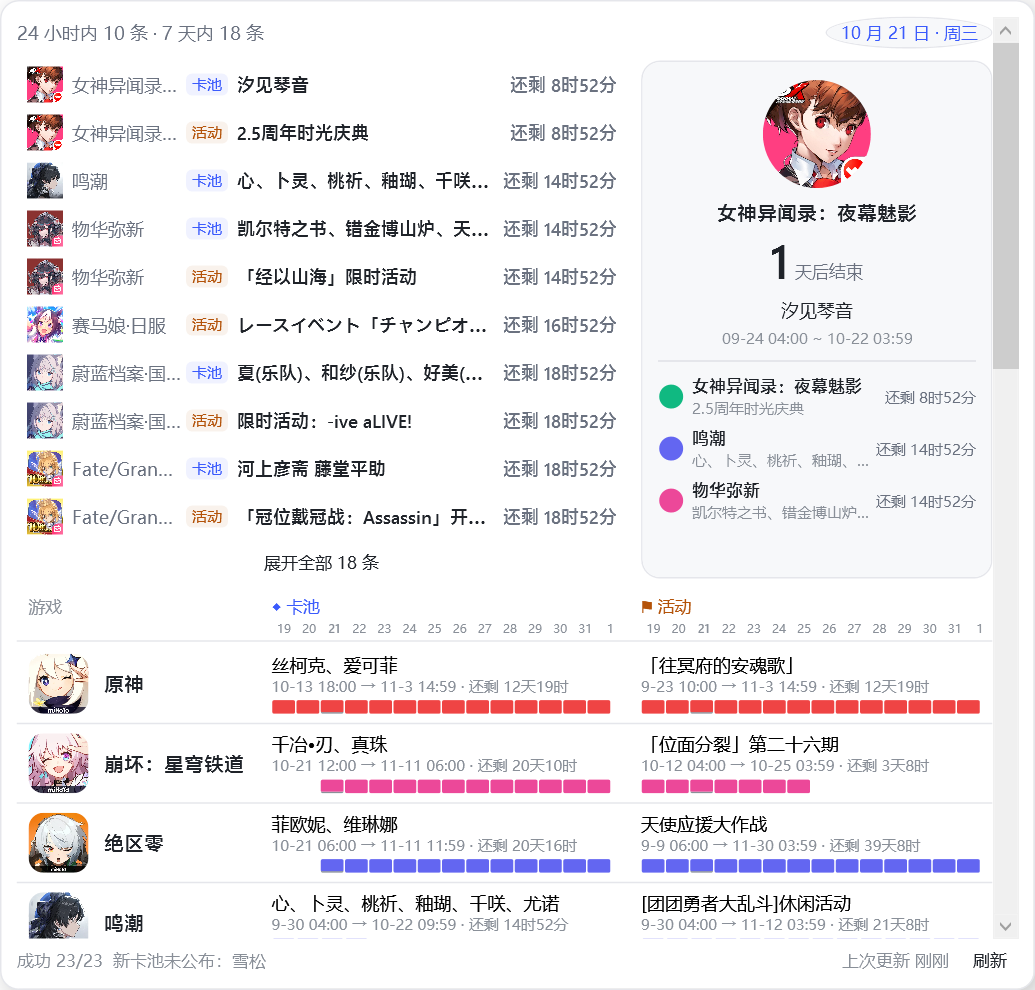
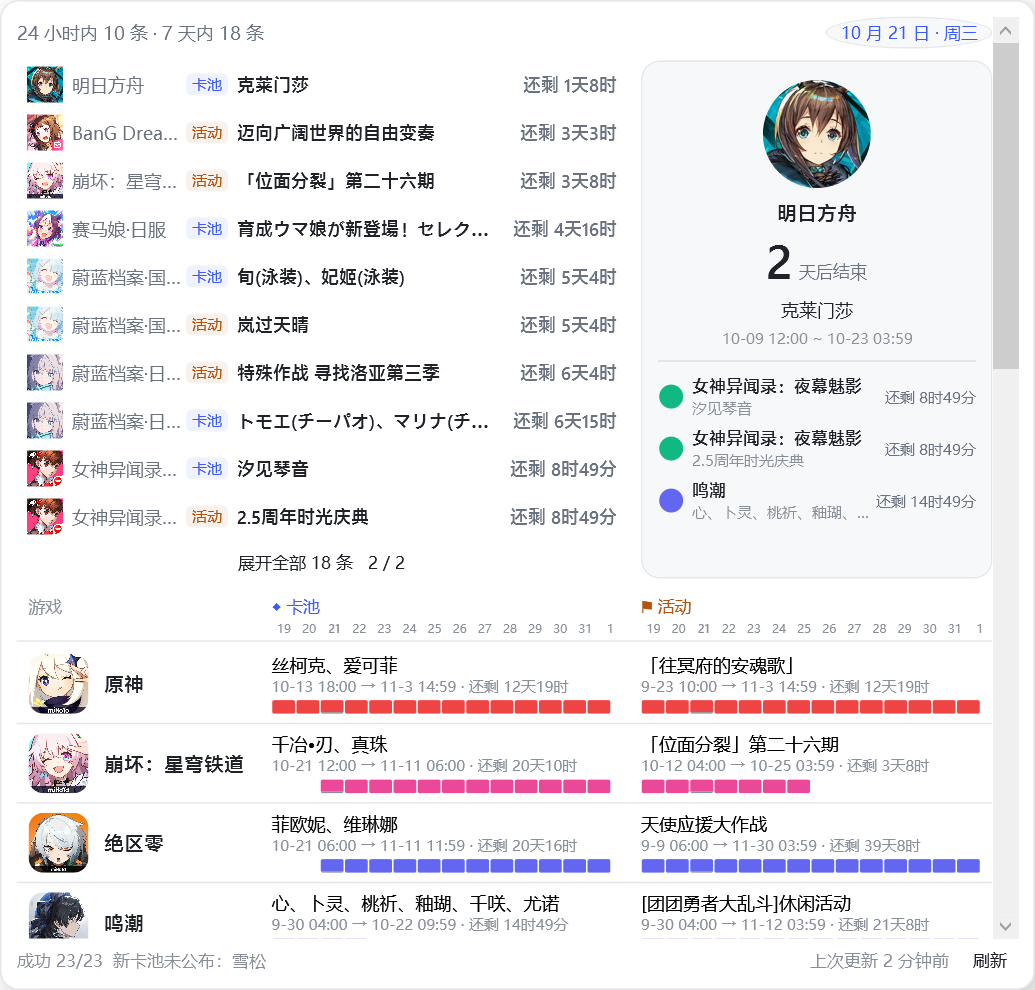
feat: v0.1.15 newPanel 循环翻页与失败横条
- 近期列表 >10 条时每 4 秒循环翻页，悬停暂停，按钮显示页码
- 刷新失败横条 + 重试；newPanel 浅/深色 100/150 截图
- 版本 0.1.15

验证：dotnet build 0 警告 0 错误；npm test 34/34；npm run check 通过；截图实测页码 2/2

diff --git a/src/GachaCalendar/Views/ScheduleView.xaml b/src/GachaCalendar/Views/ScheduleView.xaml
@@ -63,7 +63,7 @@
 						<ColumnDefinition Width="64*" />
 						<ColumnDefinition Width="36*" />
 					</Grid.ColumnDefinitions>
-					<StackPanel Grid.Column="0" Margin="0,0,10,0">
+					<StackPanel Grid.Column="0" Margin="0,0,10,0" MouseEnter="OnUrgentAreaEnter" MouseLeave="OnUrgentAreaLeave">
 						<ItemsControl ItemsSource="{Binding Urgent}">
 							<ItemsControl.ItemTemplate>
 								<DataTemplate>
@@ -440,6 +440,32 @@
 						</DataTemplate>
 					</ItemsControl.ItemTemplate>
 				</ItemsControl>
+
+				<!-- 刷新失败横条：来源级失败（沿用上次成功数据） -->
+				<Border Margin="0,6,0,2" Padding="8,4" CornerRadius="6" Background="#14D9484D" ToolTip="{Binding FailureTip}">
+					<Border.Style>
+						<Style TargetType="Border">
+							<Setter Property="Visibility" Value="Collapsed" />
+							<Style.Triggers>
+								<DataTrigger Binding="{Binding HasFailure}" Value="True">
+									<Setter Property="Visibility" Value="Visible" />
+								</DataTrigger>
+							</Style.Triggers>
+						</Style>
+					</Border.Style>
+					<Grid>
+						<Grid.ColumnDefinitions>
+							<ColumnDefinition Width="Auto" />
+							<ColumnDefinition Width="*" />
+							<ColumnDefinition Width="Auto" />
+						</Grid.ColumnDefinitions>
+						<TextBlock Text="!" FontSize="12" FontWeight="SemiBold" Foreground="{DynamicResource Danger}" Margin="0,0,6,0" />
+						<TextBlock Grid.Column="1" Text="{Binding FailureText}" FontSize="11" Foreground="{DynamicResource Danger}"
+								   TextTrimming="CharacterEllipsis" VerticalAlignment="Center" />
+						<Button Grid.Column="2" Content="重试" Style="{StaticResource SchedLinkButton}" Click="OnRefresh"
+								Foreground="{DynamicResource Danger}" />
+					</Grid>
+				</Border>
 			</StackPanel>
 		</ScrollViewer>
 

diff --git a/src/GachaCalendar/ViewModels/ScheduleViewModel.cs b/src/GachaCalendar/ViewModels/ScheduleViewModel.cs
@@ -3,6 +3,7 @@ using System.ComponentModel;
 using System.Globalization;
 using System.Runtime.CompilerServices;
 using System.Windows.Media;
+using System.Windows.Threading;
 using GachaCalendar.Models;
 using GachaCalendar.Services;
 using Brush = System.Windows.Media.Brush;
@@ -27,6 +28,17 @@ public sealed class SchedulePanelVm : INotifyPropertyChanged
 	private bool _expanded;
 	private ScheduleItemVm? _focus;
 	private string _scrapeText = "";
+	private string _failureText = "";
+	private string _failureTip = "";
+	private readonly DispatcherTimer _cycleTimer;
+	private int _page;
+	private bool _hovered;
+
+	public SchedulePanelVm()
+	{
+		_cycleTimer = new DispatcherTimer { Interval = TimeSpan.FromSeconds(4) };
+		_cycleTimer.Tick += (_, _) => NextPage();
+	}
 
 	public ObservableCollection<ScheduleItemVm> Urgent { get; } = new();
 	public ObservableCollection<ScheduleItemVm> FocusOthers { get; } = new();
@@ -37,6 +49,9 @@ public sealed class SchedulePanelVm : INotifyPropertyChanged
 	public string DatePill { get; private set; } = "";
 	public string UpdatedAgo { get; private set; } = "上次更新 尚未更新";
 	public string ScrapeText { get => _scrapeText; private set => Set(ref _scrapeText, value); }
+	public string FailureText { get => _failureText; private set => Set(ref _failureText, value); }
+	public string FailureTip { get => _failureTip; private set => Set(ref _failureTip, value); }
+	public bool HasFailure => FailureText.Length > 0;
 	public ScheduleItemVm? Focus { get => _focus; private set => Set(ref _focus, value); }
 	public string FocusGameName => Focus?.GameName ?? "";
 	public string FocusTitle => Focus?.Show ?? "";
@@ -50,8 +65,10 @@ public sealed class SchedulePanelVm : INotifyPropertyChanged
 	public int UrgentTotal { get; private set; }
 	public bool CanExpand => UrgentTotal > 10;
 	public bool HasExpand => CanExpand;
-	public string ExpandText => _expanded ? "收起" : $"展开全部 {UrgentTotal} 条";
-	public string ExpandPage => _expanded ? "" : "1 / 1";
+	public int PageCount => Math.Max(1, (UrgentTotal + 9) / 10);
+	public string ExpandText => _expanded
+		? "收起"
+		: $"展开全部 {UrgentTotal} 条   {_page + 1} / {PageCount}";
 
 	public event PropertyChangedEventHandler? PropertyChanged;
 
@@ -78,6 +95,21 @@ public sealed class SchedulePanelVm : INotifyPropertyChanged
 	public void ToggleExpand()
 	{
 		_expanded = !_expanded;
+		_page = 0;
+		FillUrgent();
+		Raise(nameof(ExpandText));
+		UpdateTimer();
+	}
+
+	public void SetHovered(bool hovered)
+	{
+		_hovered = hovered;
+	}
+
+	private void NextPage()
+	{
+		if (_expanded || _hovered || !CanExpand) return;
+		_page = (_page + 1) % PageCount;
 		FillUrgent();
 		Raise(nameof(ExpandText));
 	}
@@ -118,6 +150,7 @@ public sealed class SchedulePanelVm : INotifyPropertyChanged
 			((x.Start > nowMs && x.Start <= nowMs.AddHours(24)) || (x.End > nowMs && x.End <= nowMs.AddHours(24))));
 		var recent = all.Where(IsNear).OrderBy(Rank).ThenBy(x => x.State == "live" ? x.End : x.Start).ThenBy(x => x.GameName).ToList();
 		UrgentTotal = recent.Count;
+		_page = Math.Min(_page, PageCount - 1);
 		GlanceText = $"24 小时内 {soon24} 条 · 7 天内 {recent.Count} 条";
 		DatePill = $"{_now.Month} 月 {_now.Day} 日 · {Weekdays[(int)_now.DayOfWeek]}";
 		FocusOthers.Clear();
@@ -129,6 +162,7 @@ public sealed class SchedulePanelVm : INotifyPropertyChanged
 		}
 		_urgentCache = recent;
 		FillUrgent();
+		BuildFailure(all);
 		var refreshed = _snapshot.Result.RefreshedAt > 0 ? _snapshot.Result.RefreshedAt : _snapshot.GeneratedAt;
 		UpdatedAgo = refreshed > 0
 			? "上次更新 " + Ago(refreshed, _now)
@@ -140,7 +174,34 @@ public sealed class SchedulePanelVm : INotifyPropertyChanged
 		Raise(nameof(CanExpand));
 		Raise(nameof(HasExpand));
 		Raise(nameof(ExpandText));
-		Raise(nameof(ExpandPage));
+		UpdateTimer();
+	}
+
+	private void UpdateTimer()
+	{
+		if (CanExpand && !_expanded)
+		{
+			if (!_cycleTimer.IsEnabled) _cycleTimer.Start();
+		}
+		else
+		{
+			_cycleTimer.Stop();
+		}
+	}
+
+	private void BuildFailure(List<ScheduleItemVm> all)
+	{
+		var rows = new List<string>();
+		foreach (var item in all)
+		{
+			if (item.Fail?.Kind == "down")
+				rows.Add($"{item.GameName} · {(string.IsNullOrWhiteSpace(item.Fail.Reason) ? "抓取异常" : item.Fail.Reason)} —— 该条沿用上次成功数据");
+			else if (item.Stale)
+				rows.Add($"{item.GameName} · 本次刷新失败，沿用上次成功数据");
+		}
+		FailureTip = string.Join("\n", rows);
+		FailureText = rows.FirstOrDefault() ?? "";
+		Raise(nameof(HasFailure));
 	}
 
 	private List<ScheduleItemVm> _urgentCache = new();
@@ -148,11 +209,18 @@ public sealed class SchedulePanelVm : INotifyPropertyChanged
 	private void FillUrgent()
 	{
 		Urgent.Clear();
-		foreach (var item in (_expanded ? _urgentCache : _urgentCache.Take(10)))
-			Urgent.Add(item);
+		if (_urgentCache.Count == 0) return;
+		if (_expanded || _urgentCache.Count <= 10)
+		{
+			foreach (var item in _urgentCache) Urgent.Add(item);
+		}
+		else
+		{
+			for (var i = 0; i < 10; i++)
+				Urgent.Add(_urgentCache[(_page * 10 + i) % _urgentCache.Count]);
+		}
 		SetFocus(Urgent.FirstOrDefault());
 		Raise(nameof(ExpandText));
-		Raise(nameof(ExpandPage));
 	}
 
 	private ScheduleItemVm? BuildItem(GameMeta game, GameRecord rec, bool isGacha)

diff --git a/src/GachaCalendar/Views/ScheduleView.xaml.cs b/src/GachaCalendar/Views/ScheduleView.xaml.cs
@@ -20,6 +20,16 @@ public partial class ScheduleView : UserControl
 			vm.SetFocus(item);
 	}
 
+	private void OnUrgentAreaEnter(object sender, MouseEventArgs e)
+	{
+		if (DataContext is SchedulePanelVm vm) vm.SetHovered(true);
+	}
+
+	private void OnUrgentAreaLeave(object sender, MouseEventArgs e)
+	{
+		if (DataContext is SchedulePanelVm vm) vm.SetHovered(false);
+	}
+
 	private void OnExpand(object sender, RoutedEventArgs e)
 	{
 		if (DataContext is SchedulePanelVm vm) vm.ToggleExpand();

diff --git a/docs/11-DSH面板复刻验收.md b/docs/11-DSH面板复刻验收.md
@@ -27,11 +27,12 @@
 |---|---|---|
 | 设置页实验开关（默认关） | `NewPanelCheck` → `updateConfig({newPanel})` + 快照透传 | 代码；开关切换后 `rebuildSnapshot` |
 | 日期胶囊 + 24小时/7天总览 | `SchedulePanelVm.GlanceText` / `DatePill` | 代码 |
-| 近期紧迫列表（前 10 + 展开全部） | `Urgent` + `ToggleExpand` | 代码 |
-| 悬停详情卡 | `Focus` + `FocusOthers`（大图标/剩余天数/日期/其他项） | `docs/images/flyout-newpanel-100.png` |
+| 近期紧迫列表（前 10 + 展开分页） | `Urgent` + `ToggleExpand`；>10 条每 4 秒循环、悬停暂停 | `flyout-newpanel-100.png` |
+| 悬停详情卡 | `Focus` + `FocusOthers`（大图标/剩余天数/日期/其他项） | 同上 |
 | 14 天时间轴日程表 | 158px 游戏列 + 卡池/活动两栏 + 14 格条形 | 同上 |
+| 刷新失败横条 + 重试 | `FailureText` / `FailureTip` + 重试按钮 | 代码 |
 | 底栏状态/上次更新/刷新 | `ScrapeText` / `UpdatedAgo` / 刷新按钮 | 同上 |
-| 4 秒循环翻页 / 探头展开 / 失败横条 | 未实现 | 下一轮 |
+| 同格多档期探头展开 | 未实现 | 下一轮 |
 
 ## 3. 设置页
 
@@ -61,7 +62,8 @@
 ## 5. DPI / 深色标题栏
 
 - WPF 以 DIP 布局，`--capture-ui <dir>` 用 RenderTargetBitmap 同时输出 96 DPI（100%）与 144 DPI（150%）：
-  `docs/images/flyout-100.png` / `flyout-150.png`，newPanel 同名 `-newpanel-*`；
+  `docs/images/flyout-100.png` / `flyout-150.png`，newPanel 同名 `flyout-newpanel-*`；
+  深色 newPanel 另有 `flyout-newpanel-dark-100.png` / `-150.png`；
 - 设置窗口深色主题调用 DWM `DWMWA_USE_IMMERSIVE_DARK_MODE`，避免系统白色标题栏；
 - 自包含运行时发布尚未验证（框架依赖 zip 已验证可启动并使用包内 Node）。
 

diff --git a/docs/04-路线图.md b/docs/04-路线图.md
@@ -169,7 +169,15 @@ Fluent/DSH 风格外观已列入 [BACKLOG.md](../BACKLOG.md)。
 - [x] `--capture-ui`：96/144 DPI 渲染截图（100%/150%）
 - [ ] 自包含（self-contained）运行时包验证（当前 zip 需 .NET 10 Desktop Runtime）
 
-## v0.1.15 · 任务栏体验打磨
+## v0.1.15 · newPanel 翻页与失败横条（2026-10-21）
+
+- [x] 近期列表 >10 条时每 4 秒循环翻页；悬停暂停；按钮显示页码
+- [x] 刷新失败横条 + 重试
+- [x] newPanel 浅/深色 100%/150% 截图
+- [ ] 同格多档期探头展开
+- [ ] 自包含运行时发布
+
+## v0.1.16 · 任务栏体验打磨
 
 - [ ] 多显示器：主屏 / 每屏一份（设置项）
 - [ ] 任务栏自动隐藏时跟随（贴屏幕边缘而非消失）
@@ -179,7 +187,7 @@ Fluent/DSH 风格外观已列入 [BACKLOG.md](../BACKLOG.md)。
 - [ ] 点击外部关闭面板、Esc、快捷键（可选 Win+Alt+G）
 - [ ] 电源/锁屏/睡眠恢复后的任务栏重定位
 
-## v0.1.16 · 分发工程化
+## v0.1.17 · 分发工程化
 
 - [ ] `publish` 脚本：自包含 single-file zip + 框架依赖 zip
 - [ ] 安装包（Inno Setup 或 MSIX）：开始菜单、卸载清理自启项
@@ -188,7 +196,7 @@ Fluent/DSH 风格外观已列入 [BACKLOG.md](../BACKLOG.md)。
 - [ ] 性能预算：空闲内存 ≤ 120MB、CPU ≤ 0.1%、启动 ≤ 2s
 - [ ] 首次运行引导：数据从哪来、如何刷新、如何关掉原生小组件避免重叠
 
-## v0.1.17 · 商店与打磨
+## v0.1.18 · 商店与打磨
 
 - [ ] 代码签名（SmartScreen）
 - [ ] Microsoft Store / MSIX 上架评估

diff --git a/BACKLOG.md b/BACKLOG.md
@@ -27,11 +27,11 @@
 - [x] 悬停详情卡
 - [x] 14 天时间轴日程表 + 条形
 - [x] 底栏状态与刷新
-- [ ] 4 秒循环翻页、分页页码
+- [x] 4 秒循环翻页、分页页码
 - [ ] 同格多档期探头展开
-- [ ] 刷新失败横条 + 重试
-- [ ] 主题色取色器（接 gameColors）
-- [ ] 深色/高 DPI 视觉回归
+- [x] 刷新失败横条 + 重试
+- [x] 主题色取色器（接 gameColors）
+- [x] 深色/高 DPI 视觉回归
 
 ### 设置页（v0.1.8）
 

diff --git a/CHANGELOG.md b/CHANGELOG.md
@@ -1,5 +1,13 @@
 # CHANGELOG
 
+## v0.1.15 · 2026-10-21
+
+- newPanel：近期列表超过 10 条时每 4 秒循环翻页（悬停暂停），按钮显示 `当前页 / 总页数`；
+  展开全部后停住
+- newPanel：刷新失败横条（来源级失败/沿用旧数据）+ 重试
+- 新增 newPanel 浅/深色 100%/150% 截图
+- 版本 0.1.15
+
 ## v0.1.14 · 2026-10-21
 
 - 深色主题下设置窗口使用 DWM 深色标题栏
